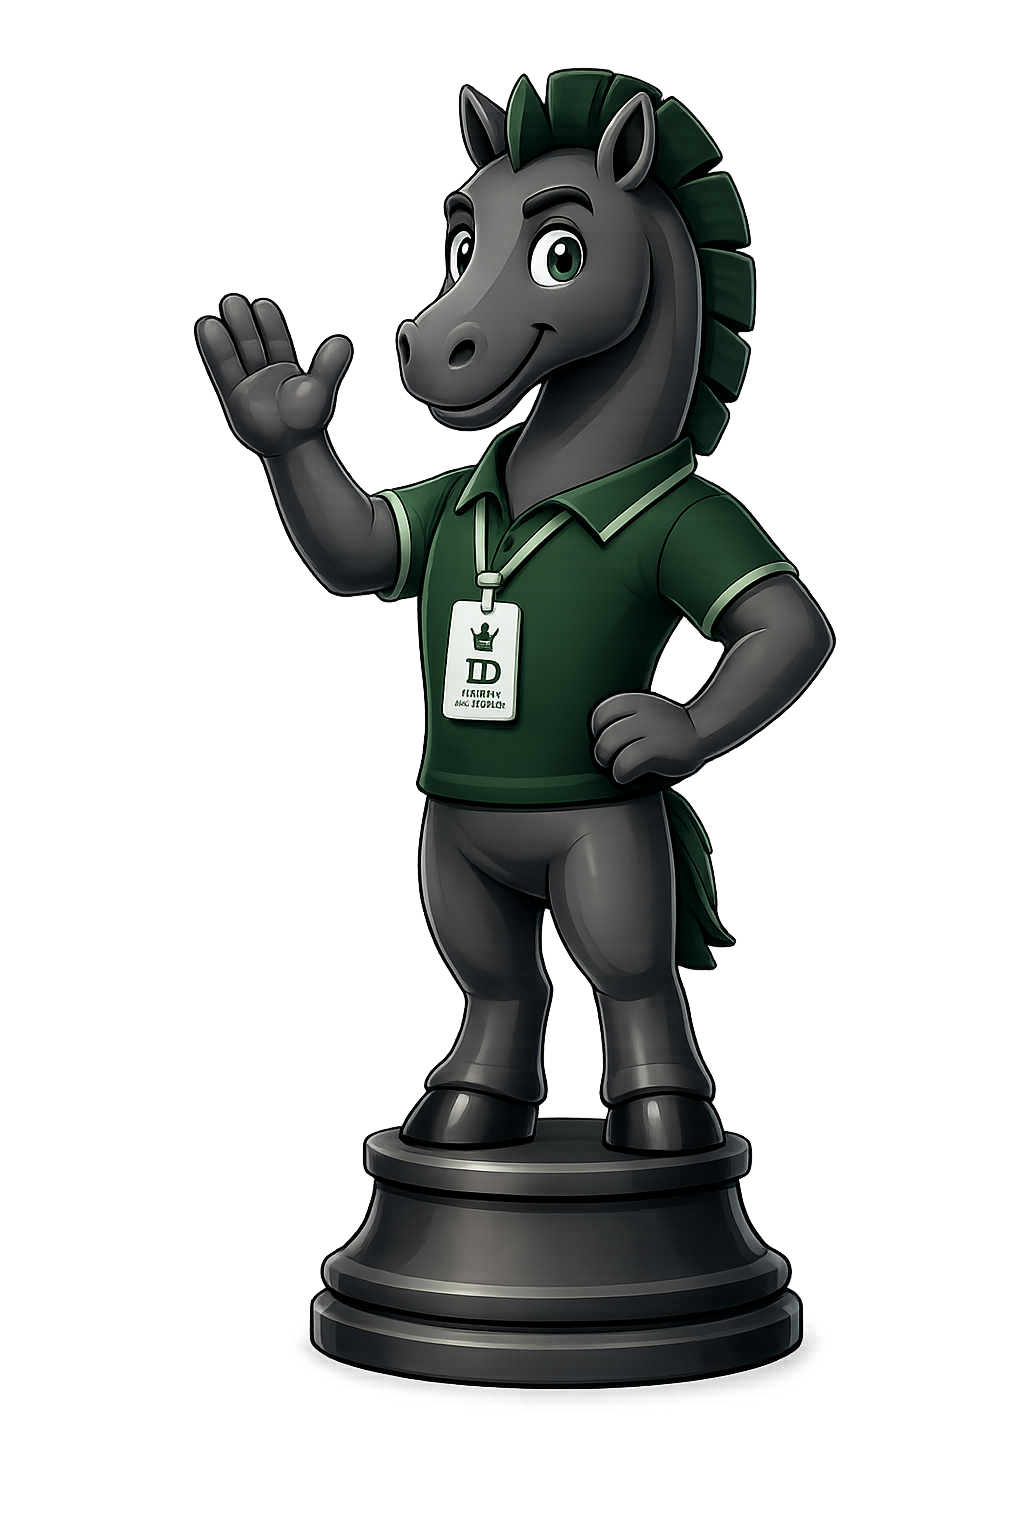
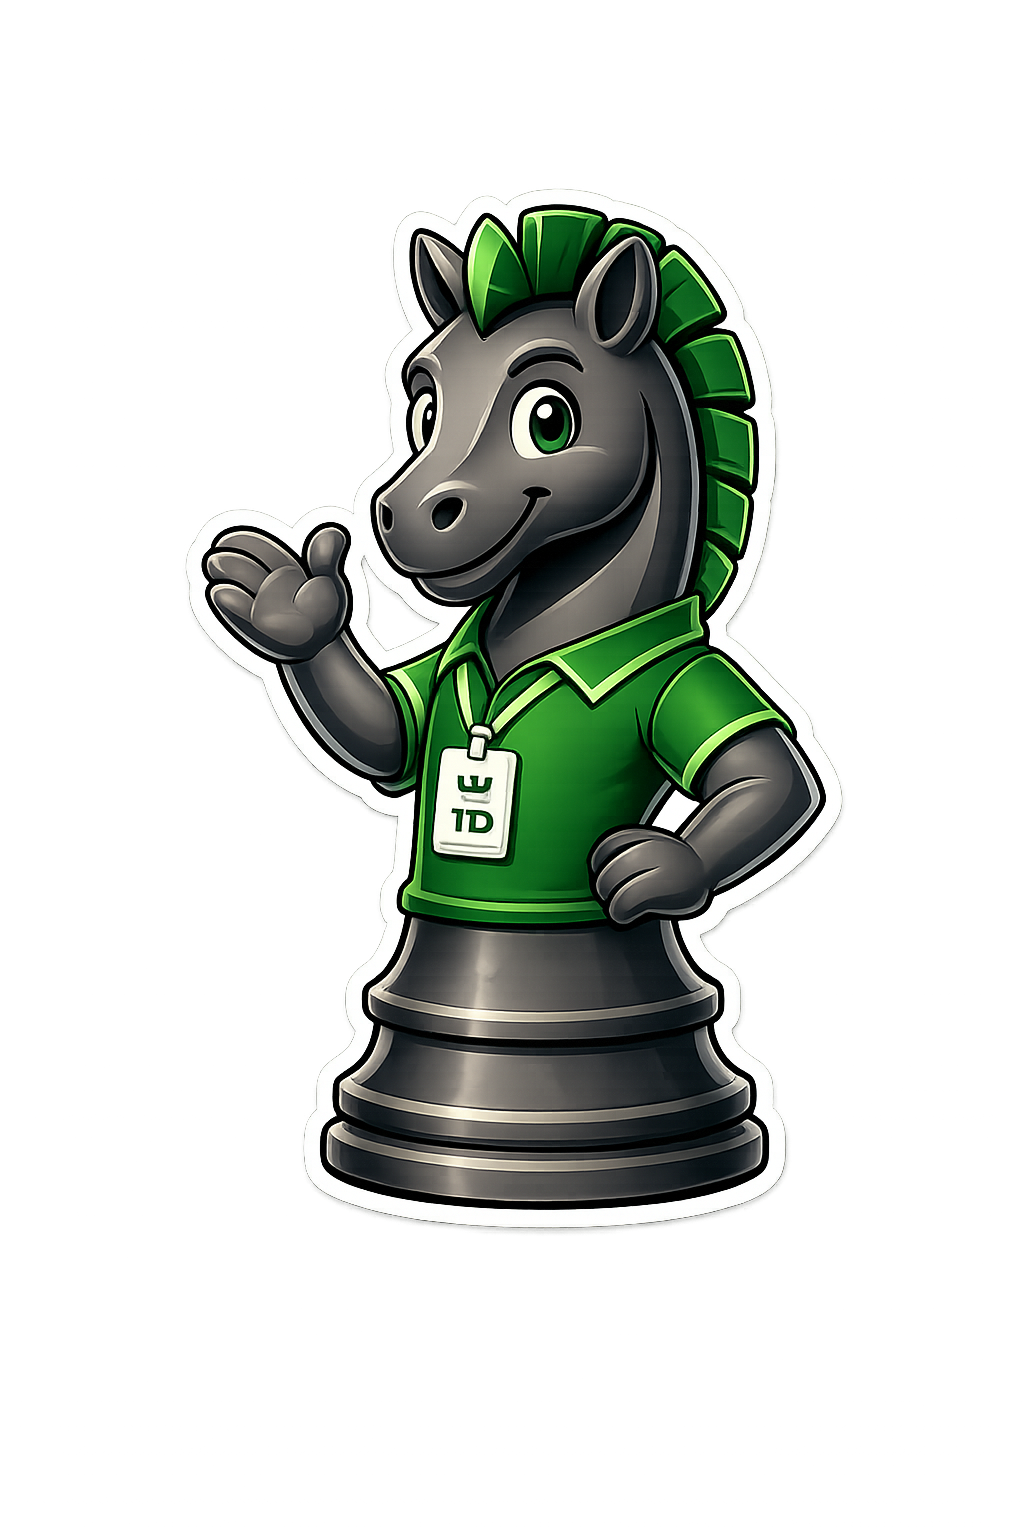
feat(mascot): novo Gambito (8 poses) + pose "pensando" no carregando
Substitui a arte do mascote pelo novo padrão de stickers (corpo inteiro da
peça de cavalo, camisa verde, crachá). Além das duas poses já usadas
(acenando na bolha/home/avatar, comemorando no fechamento), entram 6 poses
novas prontas pra uso: pareamento, aprovado, alerta, investigando,
classificacao, pensando.

Widget: o avatar do estado "carregando" (bot gerando resposta) passa a usar
a pose "pensando" em vez de acenando — GambitoAvatar ganhou prop `pose`.

diff --git a/components/chat/chat-widget.tsx b/components/chat/chat-widget.tsx
@@ -31,10 +31,10 @@ const ESCALATION_TIMEOUT_MS = 3 * 60 * 1000;
 const INACTIVITY_TIMEOUT_MS = 5 * 60 * 1000;
 
 /** Avatar do Gambito ao lado de cada resposta — reforça que é ele "falando", mesma ideia do tour guiado. */
-function GambitoAvatar() {
+function GambitoAvatar({ pose = 'acenando' }: { pose?: 'acenando' | 'pensando' }) {
   return (
     <Image
-      src="/mascot/gambito-acenando.png"
+      src={`/mascot/gambito-${pose}.png`}
       alt=""
       width={28}
       height={28}
@@ -320,7 +320,7 @@ export function ChatWidget({ initialUser }: { initialUser?: InitialUser }) {
             )}
             {sendMessage.isPending && (
               <div className="flex justify-start gap-2">
-                <GambitoAvatar />
+                <GambitoAvatar pose="pensando" />
                 <div className="rounded-lg bg-gray-100 px-3 py-2 dark:bg-gray-800">
                   <Spinner className="h-4 w-4" />
                 </div>
